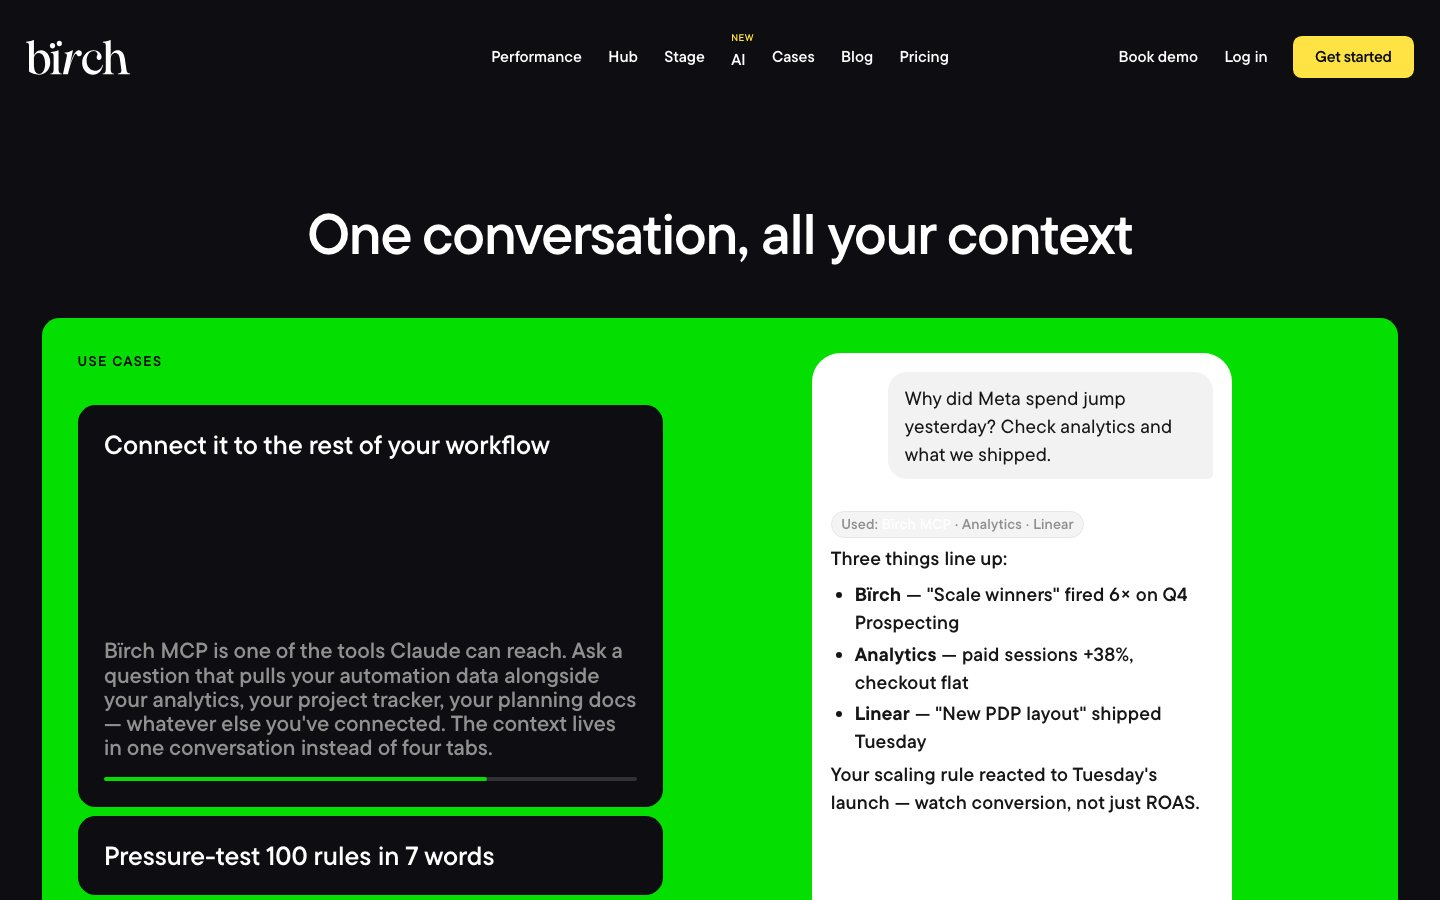
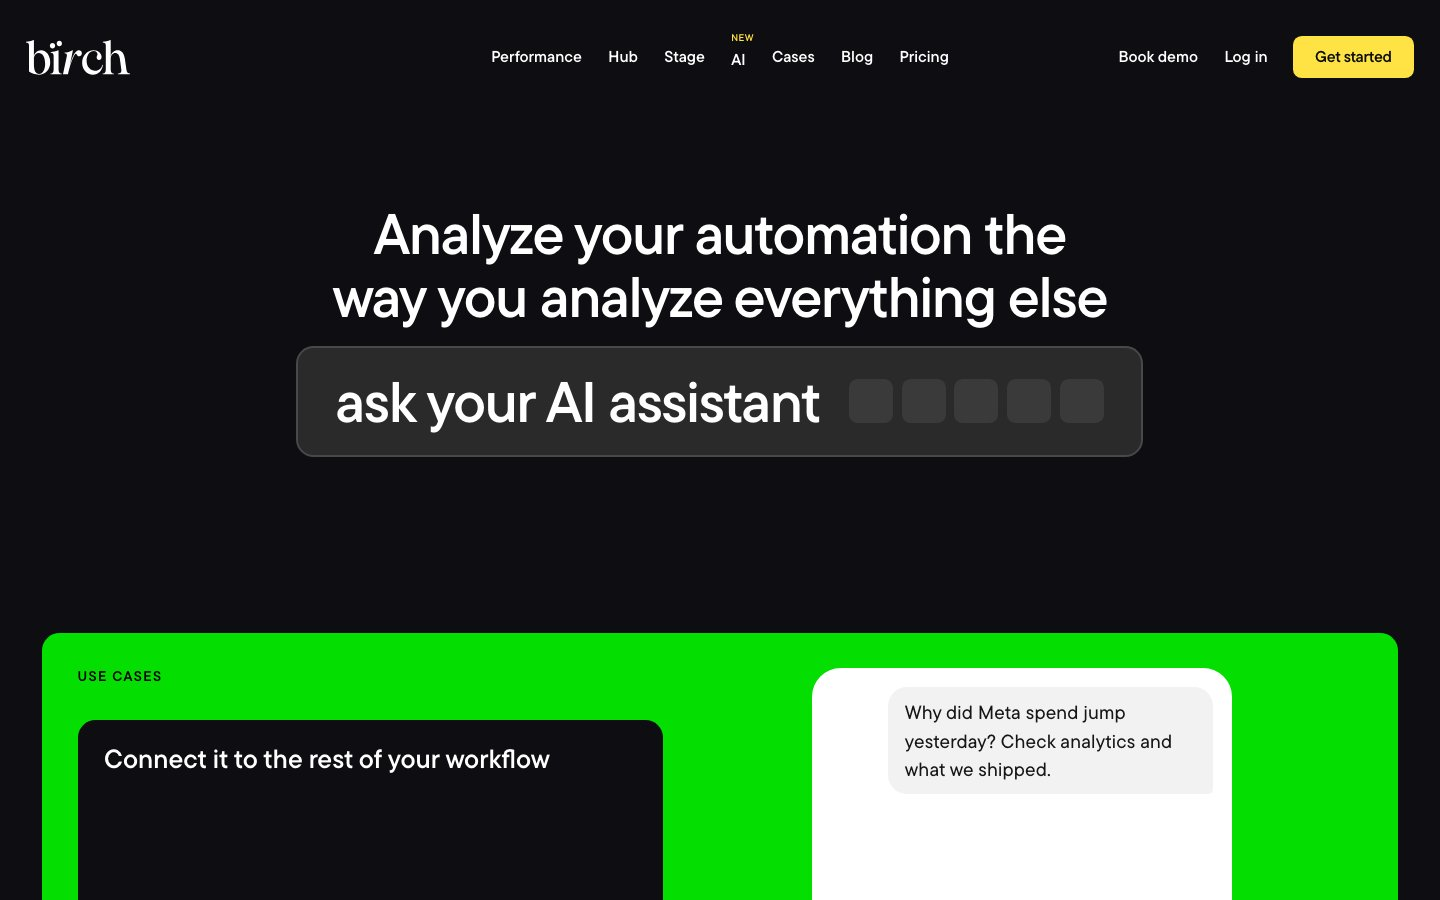
feat: birch-mcp — мобильная раскладка инпута + обновлённое превью
На <=767px пилюля перестаёт быть инпутом и становится колонкой-обёрткой:
инпутом становится само поле (фон, обводка, радиус, паддинги переезжают на
него), а знаки платформ выходят из него и встают рядом строкой ниже.
Ширина поля подгоняется под фразу — min-width пересчитывается на ресайзе,
поэтому на мобильном кегле (2rem) он ужимается и в 375px влезает без
горизонтального переполнения.

Превью для pages.html переснято под текущую вёрстку: дев-разгон скрыт,
секции возвращён отступ под фиксированный навбар, скриншот снимается после
того, как анимация реально доиграла (ждём is-typed, а не форсим состояние).

diff --git a/birch-mcp.html b/birch-mcp.html
@@ -1233,6 +1233,27 @@
     .mcp-st__pill { transition: none; }
   }
 
+  /* ── mobile: logos step out of the input and sit below it ── */
+  @media (max-width: 767px) {
+    .mcp-st__pill {
+      flex-direction: column;
+      gap: var(--space-sm);
+      /* the wrapper stops being the input… */
+      padding: 0;
+      background: none;
+      border: none;
+      border-radius: 0;
+    }
+    /* …the field becomes it, hugging the phrase */
+    .mcp-st__field {
+      max-width: 100%;
+      padding: 0.3846em 0.6538em;
+      background: var(--color-bg-grey);
+      border: 0.125rem solid var(--color-border-subtle);
+      border-radius: var(--radius-lg);
+    }
+  }
+
   /* ── dev-only runway above the statement ── */
   .mcp-runway {
     min-height: 100vh;
